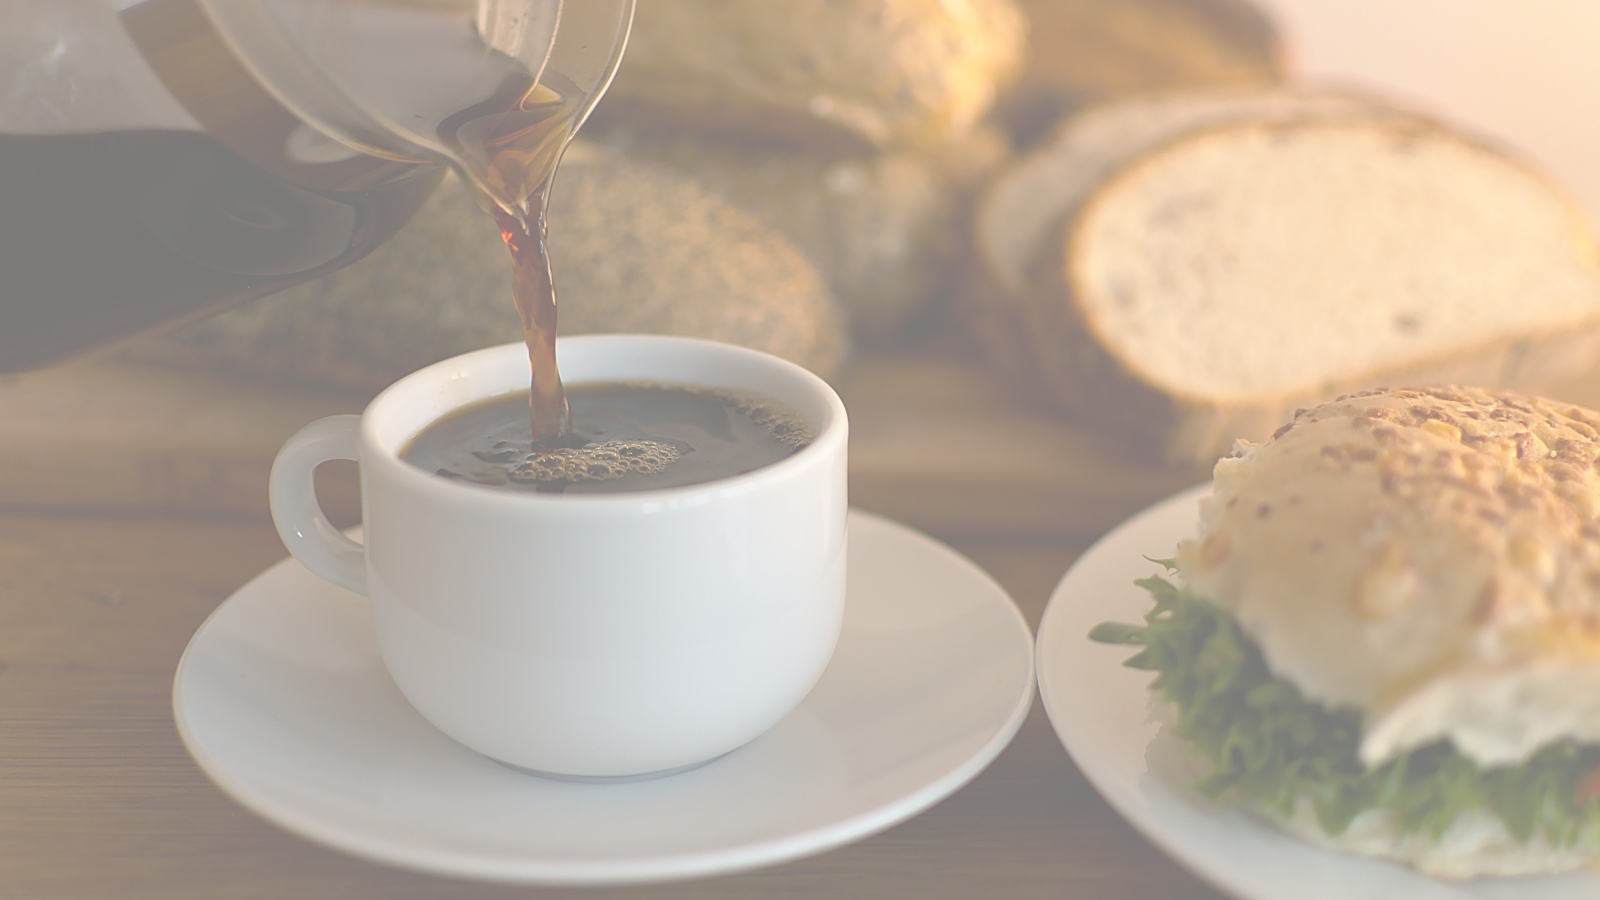
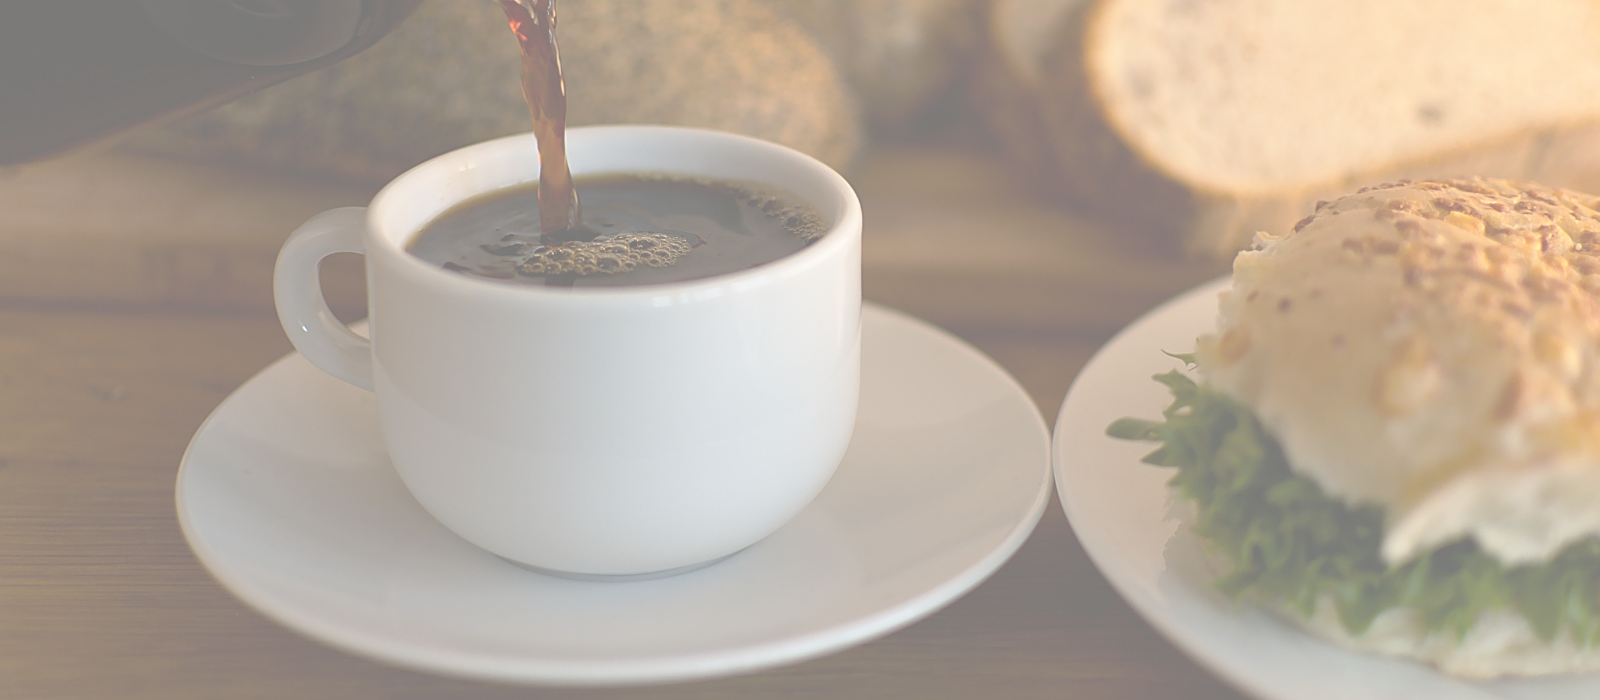
Header, pagina de serviços e pagina de contatos
Foram ajustados os headers de todas as páginas, adicionando ícones de redes sociais. Além disso, foi criado uma página de serviços e uma página de contatos

diff --git a/index.html b/index.html
@@ -8,46 +8,57 @@
     <link href="https://cdn.jsdelivr.net/npm/bootstrap@5.3.3/dist/css/bootstrap.min.css" rel="stylesheet" integrity="sha384-QWTKZyjpPEjISv5WaRU9OFeRpok6YctnYmDr5pNlyT2bRjXh0JMhjY6hW+ALEwIH" crossorigin="anonymous">
 </head>
 <body>
-<header>
+  <header>
     <nav class="navbar navbar-expand-lg bg-body-tertiary">
-        <div class="container-fluid">
-            <a class="navbar-brand" href="index.html">
-                <img src="img/padaria senac.png" alt="Logo" width="45" height="32" class="d-inline-block align-text-top">
-                Padaria Senac
+      <div class="container-fluid">
+        <a class="navbar-brand" href="index.html">
+          <img src="img/padaria senac.png" alt="Logo" width="45" height="32" class="d-inline-block align-text-top">
+          Padaria Senac
+        </a>
+        <button class="navbar-toggler" type="button" data-bs-toggle="collapse" data-bs-target="#navbarSupportedContent"     aria-controls="navbarSupportedContent" aria-expanded="false" aria-label="Toggle navigation">
+          <span class="navbar-toggler-icon"></span>
+        </button>
+        <div class="collapse navbar-collapse" id="navbarSupportedContent">
+          <ul class="navbar-nav me-auto mb-2 mb-lg-0">
+            <li class="nav-item">
+              <a class="nav-link" href="index.html">Página inicial</a>
+            </li>
+            <li class="nav-item">
+              <a class="nav-link active" aria-current="page" href="produtos.html">Produtos</a>
+            </li>
+            <li class="nav-item">
+              <a class="nav-link" href="servicos.html">Serviços</a>
+            </li>
+            <li class="nav-item">
+              <a class="nav-link" href="contato.html">Contato</a>
+            </li>
+          </ul>
+          <ul class="navbar-nav mb-2 mb-lg-0">
+            <li class="nav-item">
+              <a class="nav-link" href="https://api.whatsapp.com/send?phone=2140028922" target="_blank">
+                <img src="img/whatsapp.svg" alt="WhatsApp" width="30" height="24">
               </a>
-          <button class="navbar-toggler" type="button" data-bs-toggle="collapse" data-bs-target="#navbarSupportedContent" aria-controls="navbarSupportedContent" aria-expanded="false" aria-label="Toggle navigation">
-            <span class="navbar-toggler-icon"></span>
-          </button>
-          <div class="collapse navbar-collapse" id="navbarSupportedContent">
-            <ul class="navbar-nav me-auto mb-2 mb-lg-0">
-              <li class="nav-item">
-                <a class="nav-link active" aria-current="page" href="index.html">Página inicial</a>
-              </li>
-              <li class="nav-item">
-                <a class="nav-link" href="produtos.html">Produtos</a>
-              </li>
-              <li class="nav-item">
-                <a class="nav-link" href="#">Serviços</a>
-              </li>
-              <li class="nav-item dropdown">
-                <a class="nav-link dropdown-toggle" href="#" role="button" data-bs-toggle="dropdown" aria-expanded="false">
-                  Dropdown
-                </a>
-                <ul class="dropdown-menu">
-                  <li><a class="dropdown-item" href="#">Action</a></li>
-                  <li><a class="dropdown-item" href="#">Another action</a></li>
-                  <li><hr class="dropdown-divider"></li>
-                  <li><a class="dropdown-item" href="#">Something else here</a></li>
-                </ul>
-              </li>
-              <li class="nav-item">
-                <a class="nav-link disabled" aria-disabled="true">Disabled</a>
-              </li>
-            </ul>
-          </div>
+            </li>
+            <li class="nav-item">
+              <a class="nav-link" href="https://www.instagram.com/seu_perfil" target="_blank">
+                <img src="img/instagram.svg" alt="Instagram" width="30" height="24">
+              </a>
+            </li>
+            <li class="nav-item">
+              <a class="nav-link" href="https://t.me/seu_perfil" target="_blank">
+                <img src="img/telegram.svg" alt="Telegram" width="30" height="24">
+              </a>
+            </li>
+            <li class="nav-item">
+              <a class="nav-link" href="https://www.facebook.com/seu_perfil" target="_blank">
+                <img src="img/facebook.svg" alt="Facebook" width="30" height="24">
+              </a>
+            </li>
+          </ul>
         </div>
-      </nav>
-</header>  
+      </div>
+    </nav>
+  </header>
   <!-- Carousel -->  
 <div id="carouselExampleCaptions" class="carousel slide">
     <div class="carousel-indicators">
@@ -57,21 +68,21 @@
     </div>
     <div class="carousel-inner">
       <div class="carousel-item active">
-        <img src="img/Paes-carossel.png"  class="d-block w-100" alt="Pães franceses">
+        <img src="img/Pao-carossel.png"  class="d-block w-100" alt="Pães franceses">
         <div class="carousel-caption d-none d-md-block">
           <h5>Pães Feitos na hora!</h5>
           <p>Nós fazemos pães em todos os turnos do dia. Qualidade Garantida</p>
         </div>
       </div>
       <div class="carousel-item">
-        <img src="img/Pao de queijo-carossel.png" class="d-block w-100" alt="cesta de pão de queijo">
+        <img src="img/pao-de-queijo-carossel.png" class="d-block w-100" alt="cesta de pão de queijo">
         <div class="carousel-caption d-none d-md-block">
           <h5>Pão de queijo</h5>
           <p>Pão de queijo com queijo minas e mussarela</p>
         </div>
       </div>
       <div class="carousel-item">
-        <img src="img/Cafe-carossel.png" class="d-block w-100" alt="Cafe na xícara">
+        <img src="img/cafe-carossel.png" class="d-block w-100" alt="Cafe na xícara">
         <div class="carousel-caption d-none d-md-block">
           <h5>Café direto de minas!</h5>
           <p>Café da mais alta qualidade, sempre quentinho!</p>
@@ -112,7 +123,6 @@
       </div>
     </div>
   </div>
-
 
 
 

diff --git a/servicos.html b/servicos.html
@@ -1,0 +1,131 @@
+<!DOCTYPE html>
+<html lang="pt-br">
+<head>
+    <meta charset="UTF-8">
+    <meta name="viewport" content="width=device-width, initial-scale=1.0">
+    <title>Padaria Senac</title>
+    <link rel="stylesheet" href="css/style.css">
+    <link href="https://cdn.jsdelivr.net/npm/bootstrap@5.3.3/dist/css/bootstrap.min.css" rel="stylesheet" integrity="sha384-QWTKZyjpPEjISv5WaRU9OFeRpok6YctnYmDr5pNlyT2bRjXh0JMhjY6hW+ALEwIH" crossorigin="anonymous">
+</head>
+<body>
+    <header>
+        <nav class="navbar navbar-expand-lg bg-body-tertiary">
+          <div class="container-fluid">
+            <a class="navbar-brand" href="index.html">
+              <img src="img/padaria senac.png" alt="Logo" width="45" height="32" class="d-inline-block align-text-top">
+              Padaria Senac
+            </a>
+            <button class="navbar-toggler" type="button" data-bs-toggle="collapse" data-bs-target="#navbarSupportedContent"     aria-controls="navbarSupportedContent" aria-expanded="false" aria-label="Toggle navigation">
+              <span class="navbar-toggler-icon"></span>
+            </button>
+            <div class="collapse navbar-collapse" id="navbarSupportedContent">
+              <ul class="navbar-nav me-auto mb-2 mb-lg-0">
+                <li class="nav-item">
+                  <a class="nav-link" href="index.html">Página inicial</a>
+                </li>
+                <li class="nav-item">
+                  <a class="nav-link active" aria-current="page" href="produtos.html">Produtos</a>
+                </li>
+                <li class="nav-item">
+                  <a class="nav-link" href="servicos.html">Serviços</a>
+                </li>
+                <li class="nav-item">
+                  <a class="nav-link" href="contato.html">Contato</a>
+                </li>
+              </ul>
+              <ul class="navbar-nav mb-2 mb-lg-0">
+                <li class="nav-item">
+                  <a class="nav-link" href="https://api.whatsapp.com/send?phone=2140028922" target="_blank">
+                    <img src="img/whatsapp.svg" alt="WhatsApp" width="30" height="24">
+                  </a>
+                </li>
+                <li class="nav-item">
+                  <a class="nav-link" href="https://www.instagram.com/seu_perfil" target="_blank">
+                    <img src="img/instagram.svg" alt="Instagram" width="30" height="24">
+                  </a>
+                </li>
+                <li class="nav-item">
+                  <a class="nav-link" href="https://t.me/seu_perfil" target="_blank">
+                    <img src="img/telegram.svg" alt="Telegram" width="30" height="24">
+                  </a>
+                </li>
+                <li class="nav-item">
+                  <a class="nav-link" href="https://www.facebook.com/seu_perfil" target="_blank">
+                    <img src="img/facebook.svg" alt="Facebook" width="30" height="24">
+                  </a>
+                </li>
+              </ul>
+            </div>
+          </div>
+        </nav>
+      </header>
+    
+    <h2 style="text-align: center; font-size: 140%;">Serviços</h2>
+    <div class="container-fluid">
+        <div class="row">
+            <div class="col-4">
+                <img src="img/bolo-servicos.png" class="img-thumbnail" alt="Serviço de bolo">
+            </div>
+            <div class="col-4">
+                <img src="img/Paes-serviços.png" class="img-thumbnail" alt="Serviço de paes especiais">
+            </div>
+            <div class="col-4">
+                <img src="img/buffet-servicos.png" class="img-thumbnail" alt="Serviço de buffet">
+            </div>
+        </div>
+    </div>
+    <table class="table">
+        <thead>
+          <tr>
+            <th scope="col">Nome do serviço</th>
+            <th scope="col">Preço</th>
+            <th scope="col">Antecedência</th>
+          </tr>
+        </thead>
+        <tbody>
+          <tr>
+            <th scope="row">Bolo de Aniversário Pequeno </th>
+            <td>R$50,00</td>
+            <td>1 dia</td>
+          </tr>
+          <tr>
+            <th scope="row">Bolo de Aniversário Grande</th>
+            <td>R$85,00</td>
+            <td>1 dia</td>
+          </tr>
+          <tr>
+            <th scope="row">Salgado de festa</th>
+            <td>R$55,00 </td>
+            <td>1 a 3 horas</td>
+          </tr>
+          <tr>
+            <th scope="row">Pães especiais</th>
+            <td>A consultar </td>
+            <td>2 dias</td>
+          </tr>
+          <tr>
+            <th scope="row">Bolo de corte</th>
+            <td>R$250,00 / kg</td>
+            <td>5 dias</td>
+          </tr>
+          <tr>
+            <th scope="row">Buffet de festa pequena</th>
+            <td>R$300,00 / hora</td>
+            <td>7 dias</td>
+          </tr>
+          <tr>
+            <th scope="row">Buffet de festa grande</th>
+            <td>R$600,00 / hora</td>
+            <td>7 dias</td>
+          </tr>
+        </tbody>
+      </table>
+
+
+
+
+    <footer>
+        <script src="https://cdn.jsdelivr.net/npm/bootstrap@5.3.3/dist/js/bootstrap.bundle.min.js" integrity="sha384-YvpcrYf0tY3lHB60NNkmXc5s9fDVZLESaAA55NDzOxhy9GkcIdslK1eN7N6jIeHz" crossorigin="anonymous"></script>
+    </footer>
+</body>
+    </html>

diff --git a/contato.html b/contato.html
@@ -1,11 +1,12 @@
 <!DOCTYPE html>
 <html lang="pt-br">
 <head>
-    <meta charset="UTF-8">
-    <meta name="viewport" content="width=device-width, initial-scale=1.0">
-    <title>Padaria Senac</title>
-    <link rel="stylesheet" href="css/style.css">
-    <link href="https://cdn.jsdelivr.net/npm/bootstrap@5.3.3/dist/css/bootstrap.min.css" rel="stylesheet" integrity="sha384-QWTKZyjpPEjISv5WaRU9OFeRpok6YctnYmDr5pNlyT2bRjXh0JMhjY6hW+ALEwIH" crossorigin="anonymous">
+  <meta charset="UTF-8">
+  <meta name="viewport" content="width=device-width, initial-scale=1.0">
+  <title>Padaria Senac</title>
+  <link rel="stylesheet" href="css/style.css">
+
+  <link href="https://cdn.jsdelivr.net/npm/bootstrap@5.3.3/dist/css/bootstrap.min.css" rel="stylesheet" integrity="sha384-QWTKZyjpPEjISv5WaRU9OFeRpok6YctnYmDr5pNlyT2bRjXh0JMhjY6hW+ALEwIH" crossorigin="anonymous">
 </head>
 <body>
   <header>
@@ -59,21 +60,43 @@
       </div>
     </nav>
   </header>
-<h2 style="text-align: center; font-size: 140%;">Produtos</h2>
-<div class="card text-bg-dark">
-  <img src="img/Salgado com overlay.png" class="card-img" alt="...">
-  <div class="card-img-overlay">
-    <h5 class="card-title">Salgados</h5>
-    <p class="card-text align-items-end">Sua festa ficará completa com nossos salgados</p>
-  </div>
-</div>
 
+  <!-- <h2 class="text-center" style="font-size: 140%;">Contato</h2>
+  <div class="container-fluid">
+    <div class="row justify-content-center">
+      <div class="col-auto">
+        <a href="https://api.whatsapp.com/send?phone=2140028922" target="_blank" style="margin-right: 20px;">
+          <img src="img/whatsapp.svg" alt="WhatsApp" width="100" height="100">
+        </a>
+        <a href="https://www.instagram.com/seu_perfil" target="_blank" style="margin-right: 20px;">
+          <img src="node_modules/bootstrap-icons/icons/instagram.svg" alt="Instagram" width="100" height="100">
+        </a>
+        <a href="https://t.me/seu_perfil" target="_blank" style="margin-right: 20px;">
+          <img src="node_modules/bootstrap-icons/icons/telegram.svg" alt="Telegram" width="100" height="100">
+        </a>
+        <a href="https://www.facebook.com/seu_perfil" target="_blank">
+          <img src="node_modules/bootstrap-icons/icons/facebook.svg" alt="Facebook" width="100" height="100">
+        </a>
+      </div>
+    </div>
+  </div> -->
+  <br>
+  <form action="https://formspree.io/f/mgveyyoe" method="POST">
+    <label>
+      Seu email:
+      <input type="email" name="email" required>
+    </label>
+    <br>
+    <label>
+      Sua mensagem:
+      <textarea name="message" required></textarea>
+    </label>
+    <br>
+    <!-- outros campos do formulário -->
+    <button type="submit">Enviar</button>
+  </form>
 
-
-
-
-<footer>
-    <script src="https://cdn.jsdelivr.net/npm/bootstrap@5.3.3/dist/js/bootstrap.bundle.min.js" integrity="sha384-YvpcrYf0tY3lHB60NNkmXc5s9fDVZLESaAA55NDzOxhy9GkcIdslK1eN7N6jIeHz" crossorigin="anonymous"></script>
-</footer>
+  <script src="https://cdn.jsdelivr.net/npm/bootstrap@5.3.3/dist/js/bootstrap.bundle.min.js" integrity="sha384-YvpcrYf0tY3lHB60NNkmXc5s9fDVZLESaAA55NDzOxhy9GkcIdslK1eN7N6jIeHz" crossorigin="anonymous"></script>
+<scrip src="js/main.js"></scrip>
 </body>
 </html>

diff --git a/css/style.css b/css/style.css
@@ -1,0 +1,2 @@
+@import "~bootstrap-icons/font/bootstrap-icons.css";
+
